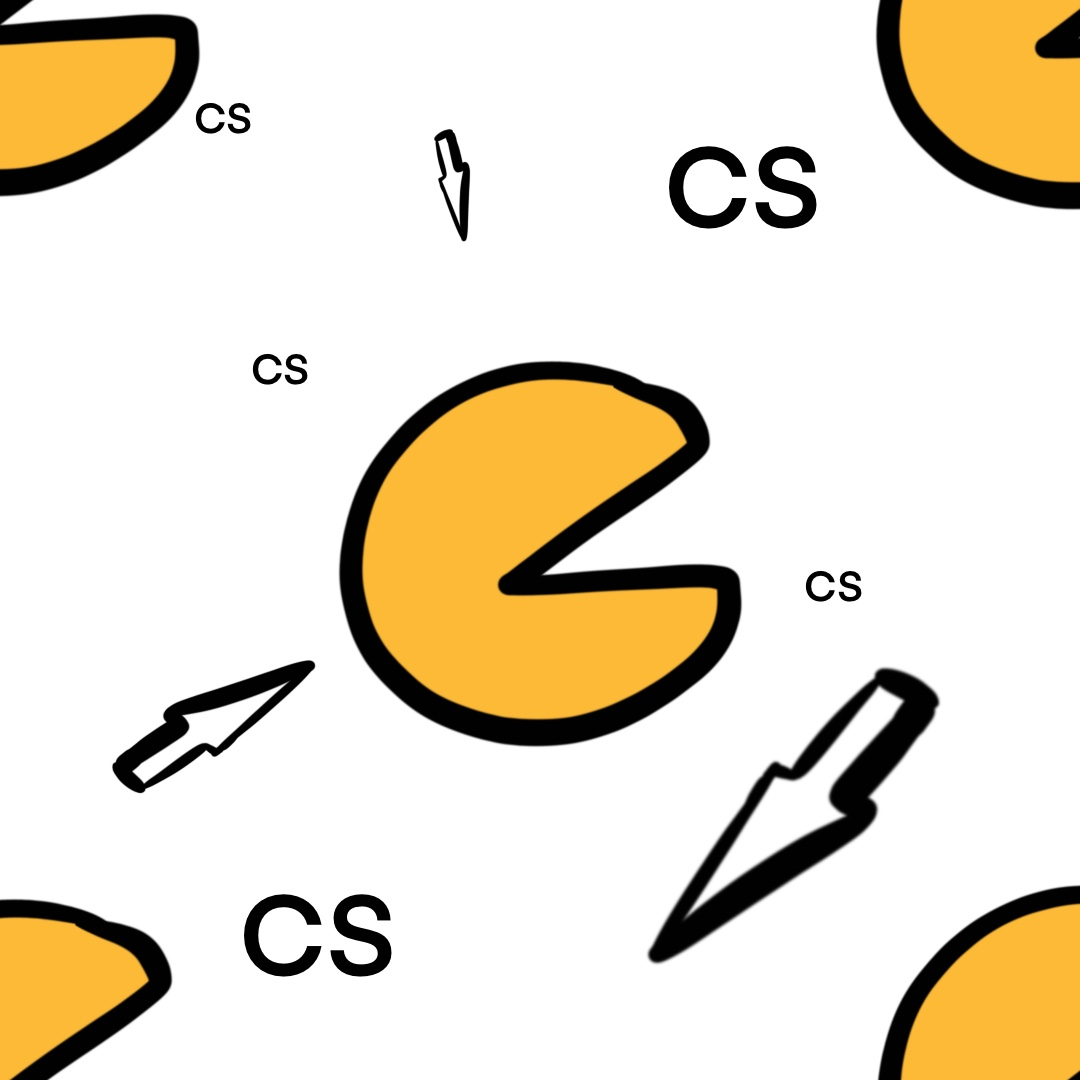
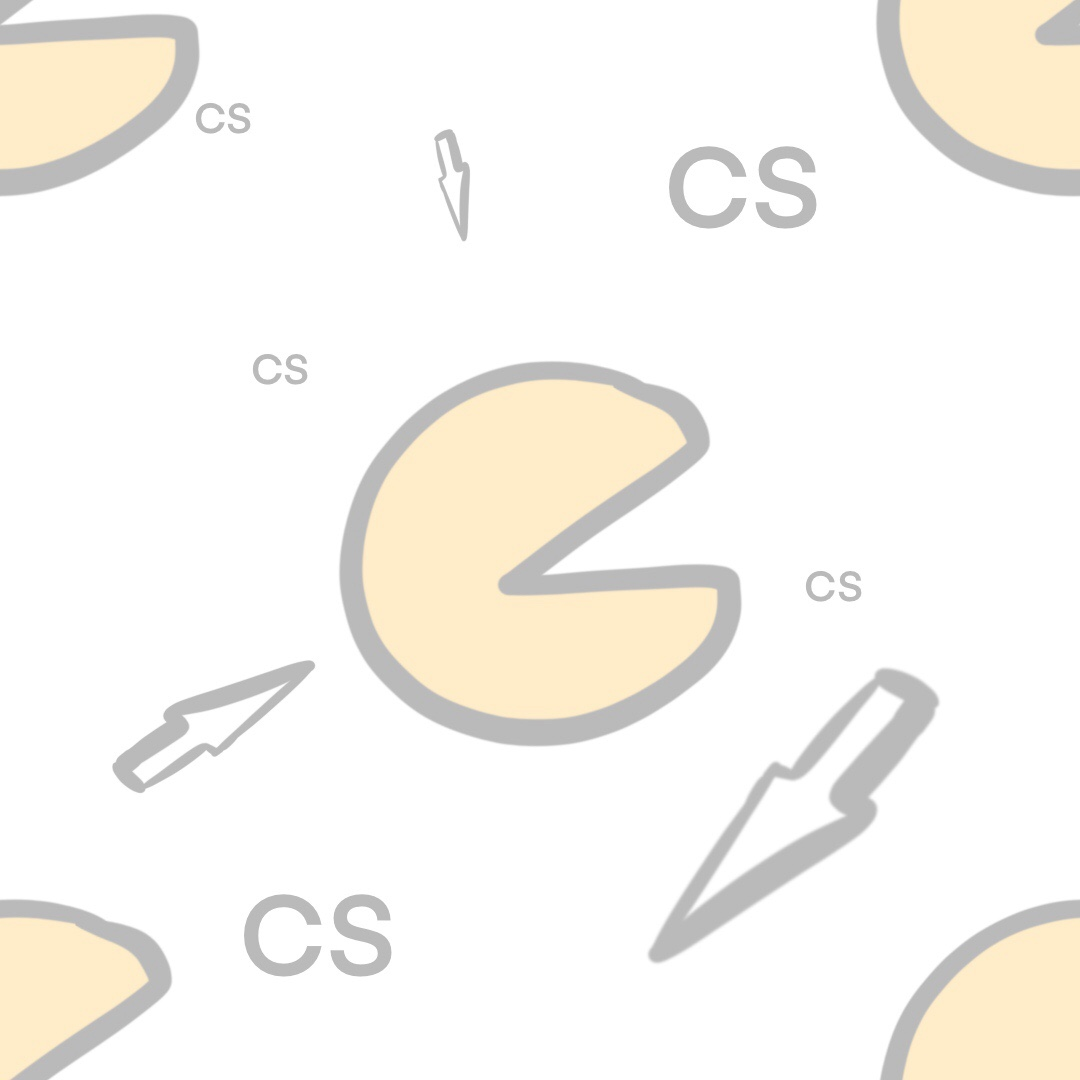
push maniaco
pushmania

diff --git a/Web Multimedia/pages/contacto.html b/Web Multimedia/pages/contacto.html
@@ -32,7 +32,7 @@
       <div class="chapter">
         <ul>
         <li>
-          <p><b>Jaime</b>: <br><br>Programador y asistente de arte, graduado por la Universidad de Harvard en desarrollo de proyectos multimedia. <br>jjimenez@clikerstudio.com</p>
+          <p><b>Jaime</b>: <br><br>Programador y asistente de arte, graduado por la Universidad de Harvard en desarrollo de proyectos multimedia. <br><br>jjimenez@clikerstudio.com</p>
         </li>
         <li>
           <img class="profilePic" align= center src="../imagenes/perfil/jaime.jpg">
@@ -46,7 +46,7 @@
           <img class="profilePic" align= center src="../imagenes/perfil/javi.jpg">
         </li>
         <li>
-          <p><b>Javi</b>: <br><br>Ingeniero de Sistemas y Desarrollador de Videojuegos, dirige principalmente el equipo de programación para que no se escape ni una línea de diversión.Ha trabajado en títulos como Fifo 2037 y Proyecto Dejaloo.<br> jhuertas@clikerstudio.com</p>
+          <p><b>Javi</b>: <br><br>Ingeniero de Sistemas y Desarrollador de Videojuegos, dirige principalmente el equipo de programación para que no se escape ni una línea de diversión.Ha trabajado en títulos como Fifo 2037 y Proyecto Dejaloo.<br><br> jhuertas@clikerstudio.com</p>
         </li>
         </ul>
       </div>
@@ -54,7 +54,7 @@
       <div class="chapter">
         <ul>
         <li>
-          <p>Somos una empresa en desarrollo y tenemos muchos planes de futuro que seguro te entretendrán y te mantendrán ilusionado durante un largo tiempo. ¿Tienes curiosidad? Regístrate y podrás estar al corriente de todas las novedades.</p>
+          <p><b>Lonan</b>: <br><br>Diseñador de Niveles y Jugabilidad. Posee varios títulos lanzados en Steam y ha colaborado con Blizzard Studio y SEGA en el desarrollo de niveles para Sonic The Hedgegog: Uganda Knuckles <br> <br>lmontesdeoca@clikerstudio.com </p>
         </li>
         <li>
           <img class="profilePic" align= center src="../imagenes/perfil/lonan.jpg">

diff --git a/Web Multimedia/index.html b/Web Multimedia/index.html
@@ -8,14 +8,14 @@
 <script type="text/javascript" src="galeria.js"></script>
   </head>
 
-  <body background="./imagenes/misc/fondo.jpg">
+  <body background="./imagenes/misc/fondoPatron.jpg">
     <basefont face="Arial">
       <audio src="../Audio/Temple of the Mystics.wav" autoplay="true" loop="true"></audio>
 
     <div id="container" class="banner">
 
       <div id="switcher" class="switcher">
-        <h3>Clicker Studio</h3>
+        <img id="logo" src="imagenes/misc/logo.gif"><br>
         <button>
           <a href = "index.html"> Inicio </a>
         </button>

diff --git a/Web Multimedia/pages/03.css b/Web Multimedia/pages/03.css
@@ -46,6 +46,11 @@ a{
    Chapter Styles
 ************************************** */
 
+#logo{
+  width: 120px;
+  height: auto;
+}
+
 .chapter {
   margin: 1em;
   margin-top: 50px;
